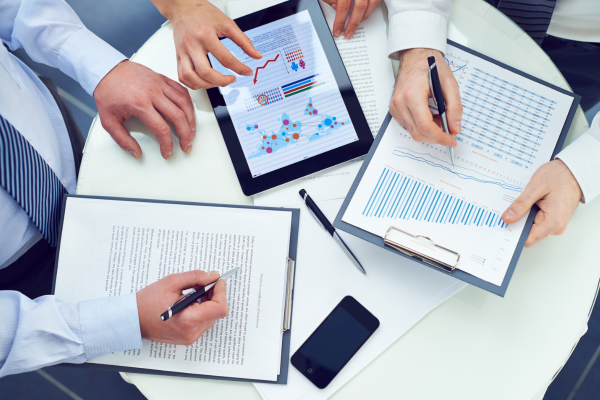
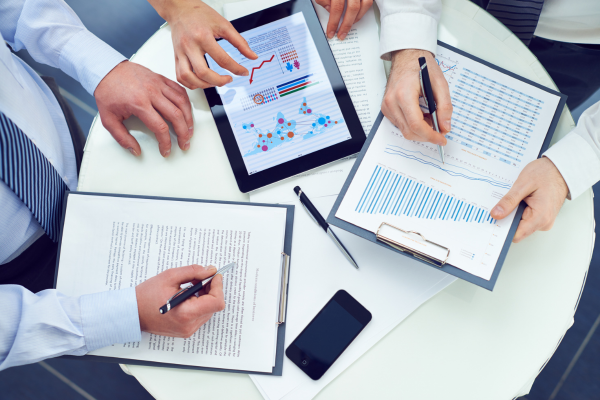
Atualização nas imagens e ajustes na interfaçe mobile

diff --git a/about.html b/about.html
@@ -63,8 +63,7 @@
                       <a href="about.html" class="nav-item nav-link active" >Sobre</a>
                       <a href="service.html" class="nav-item nav-link">Serviços</a>
                       <a href="contact.html" class="nav-item nav-link">Contato</a>                                   
-                  </div>  
-                  <a href="#" class="btn btn-primary rounded-pill py-2 px-4 my-3 my-lg-0 flex-shrink-0">Login</a>
+                  </div>                   
               </div>
             </nav>    
         <!-- Navbar & Hero Start -->       
@@ -157,28 +156,27 @@
 
      <!--Para Mobile O que Fazemos-->
 
-     <p class="title-WhatWeDo">O que fazemos?</p>
+     <h1 class="title-WhatWeDo display-5">O que fazemos?</h1>
      <div class="card-WhatWeDo">     
      <img src="img/oQueFazemos.png" alt="">
-     <p>Mapear/Analisar processos e rotinas x tecnologias existentes, identificar os pontos de atenção e sugerir melhorias conforme Planejamento Estratégico da Instituição e seu Plano Orçamentário
+     <p class="mobile-info">Mapear/Analisar processos e rotinas x tecnologias existentes, identificar os pontos de atenção e sugerir melhorias conforme Planejamento Estratégico da Instituição e seu Plano Orçamentário
        </p>
-       <button class="btn-WhatWeDo"><a href="#" class="myButton">Sobre mim</a></button>
-       <button class="btn-WhatWeDo" ><a href="#" class="myButton">Sobre mim</a></button>
+       <button class="btn-WhatWeDo"><a href="#" class="myButton">Sobre mim</a></button>      
      </div>
        <!--Para Mobile O que Fazemos-->
 
-       <div class="container-fluid feature pb-5">
+       <div class="container-fluid feature">
             <div class="container">
-                <div class="text-center mx-auto pb-5 wow fadeInUp" data-wow-delay="0.2s" style="max-width: 800px;">
-                    <h1 class="display-5 mb-4">Nossos Ideais</h1>
+                <div class="text-center mx-auto wow fadeInUp" data-wow-delay="0.2s" style="max-width: 800px;">
+                    <h1 class="title-WhatWeDo display-5">Nossos Ideais</h1>
                 </div>
             </div>
        </div>      
      
        <div class="Heading-ideiaMobile">
          <img src="img/mobileMulherOculosVR.png" alt="">
-       <h2>Visão</h2>
-       <p>
+       <h2 class="py-5">Visão</h2>
+       <p class="mobile-info">
          Mapear/Analisar processos e rotinas x tecnologias existentes, identificar os pontos de atenção e sugerir melhorias conforme Planejamento Estratégico da Instituição e seu Plano Orçamentário
        </p>
        <a href="#" class="read-more">
@@ -190,7 +188,7 @@
 
    <img src="img/mobile-oQueFazemos.png" alt="">
  <h2>Metodólogia</h2>
- <p>
+ <p class="mobile-info">
    Ser referência no mercado em que atuamos despertando em nossos clientes uma parceira de melhoria contínua estimulando o uso consciente da tecnologia dentro de um perfil sustentável.
  </p>
  <a href="#" class="read-more">
@@ -200,7 +198,7 @@
 <div class="Heading-ideiaMobile">
  <img src="img/mobile-maosEquipe.png" alt="">
 <h2>Missão</h2>
-<p>
+<p class="mobile-info">
  Estimular em nossos clientes e parceiros uma relação com a tecnologia de forma que ela seja efetiva para suas demandas contribuindo para o crescimento e desenvolvimento do seu proposito empresarial
 </p>
 <a href="#" class="read-more">

diff --git a/css/style.css b/css/style.css
@@ -227,7 +227,20 @@
     padding-top: 0.5rem !important; 
     padding-bottom: 0.5rem !important;
 }
+
+
+@media (min-width: 535px) {  
+.py-md-5 {
+  padding-top: 45rem !important;
+  padding-bottom: 35rem !important;
 }
+
+}
+}
+
+
+
+
 
 @media (min-width: 992px) {
     .navbar .nav-item .dropdown-menu {
@@ -1444,15 +1457,29 @@ background: white;
         text-align: center;
         font-size: 2rem;
         color: var(--card-h1-destaque);
+        padding-top: 15px;
       
       }
       .Heading-ideiaMobile a{   
-        font-size: 1.5rem;
-       
+        
+       display: block;
       
       }
+
+      .Heading-ideiaMobile img{
+        height: 300px;
+      }
   
+      .mobile-info{
+        padding-top: 15px;
+      }
   
+      .align-items-center {
+        display: flex
+    ;
+        justify-content: center;
+        align-items: center !important;
+    }
   
   
     /*Heading-ideiaMobile*/
@@ -1698,6 +1725,7 @@ background: white;
           aspect-ratio: 1;
           object-fit: cover;
         }
+
         
      
       }
@@ -2082,10 +2110,32 @@ background: white;
   
 
   /*Contact*/
+/* Para desktop */
+.py-md-5 {
+  padding-top: 25rem !important;
+  padding-bottom: 35rem !important;
+}
 
-.py-md-5{padding-top:27rem!important;padding-bottom:35rem!important}
-
-
+/* Para dispositivos móveis (Referente a contatos) */
+@media (max-width: 768px) {
+  .py-md-5 {
+      padding-top: 45rem !important;
+      padding-bottom: 47rem !important;
+  }
+  .py-5 {
+    padding-top: 0rem !important;
+    padding-bottom: 0rem !important;
+}
+  .container{
+    margin-top: 5px;
+  }
+  .title-WhatWeDo {
+    font-family: 'ROBOTO';
+    font-size: 2rem;
+    padding: 1rem;
+}
+}
+/*Contact*/
 
 
 .b24-widget-button-inner-container{

diff --git a/index.html b/index.html
@@ -66,7 +66,7 @@
                        
                         </div>                       
                     </div>  
-                    <a href="#" class="btn btn-primary rounded-pill py-2 px-4 my-3 my-lg-0 flex-shrink-0">Login</a>
+
                 </div>
             </nav>
 
@@ -224,9 +224,6 @@
                             </div> -->
                             <img src="img/gestao.png" class="img-fluid rounded w-100" alt="">
                             
-                            <div class="" style="position: absolute; top: -15px; right: -15px;">
-                                <img src="img/about-3.png" class="img-fluid" style="width: 150px; height: 150px; opacity: 0.7;" alt="">
-                            </div>
                             <div class="" style="position: absolute; top: -20px; left: 10px; transform: rotate(90deg);">
                                 <img src="img/about-4.png" class="img-fluid" style="width: 100px; height: 150px; opacity: 0.9;" alt="">
                             </div>

diff --git a/contact.html b/contact.html
@@ -78,7 +78,7 @@
                                 <a href="404.html" class="dropdown-item">404 Page</a>
                             </div>-->                    
                     </div>  
-                    <a href="#" class="btn btn-primary rounded-pill py-2 px-4 my-3 my-lg-0 flex-shrink-0">Login</a>
+
                 </div>
             </nav>
 
@@ -228,6 +228,7 @@
       </div>
     </div>
   </section>
+  
 
 
          <!-- Footer Start -->

diff --git a/service.html b/service.html
@@ -64,7 +64,7 @@
                         <a href="contact.html" class="nav-item nav-link">Contato</a>
                                         
                     </div>  
-                    <a href="#" class="btn btn-primary rounded-pill py-2 px-4 my-3 my-lg-0 flex-shrink-0">Login</a>
+
                 </div>
             </nav>
 
